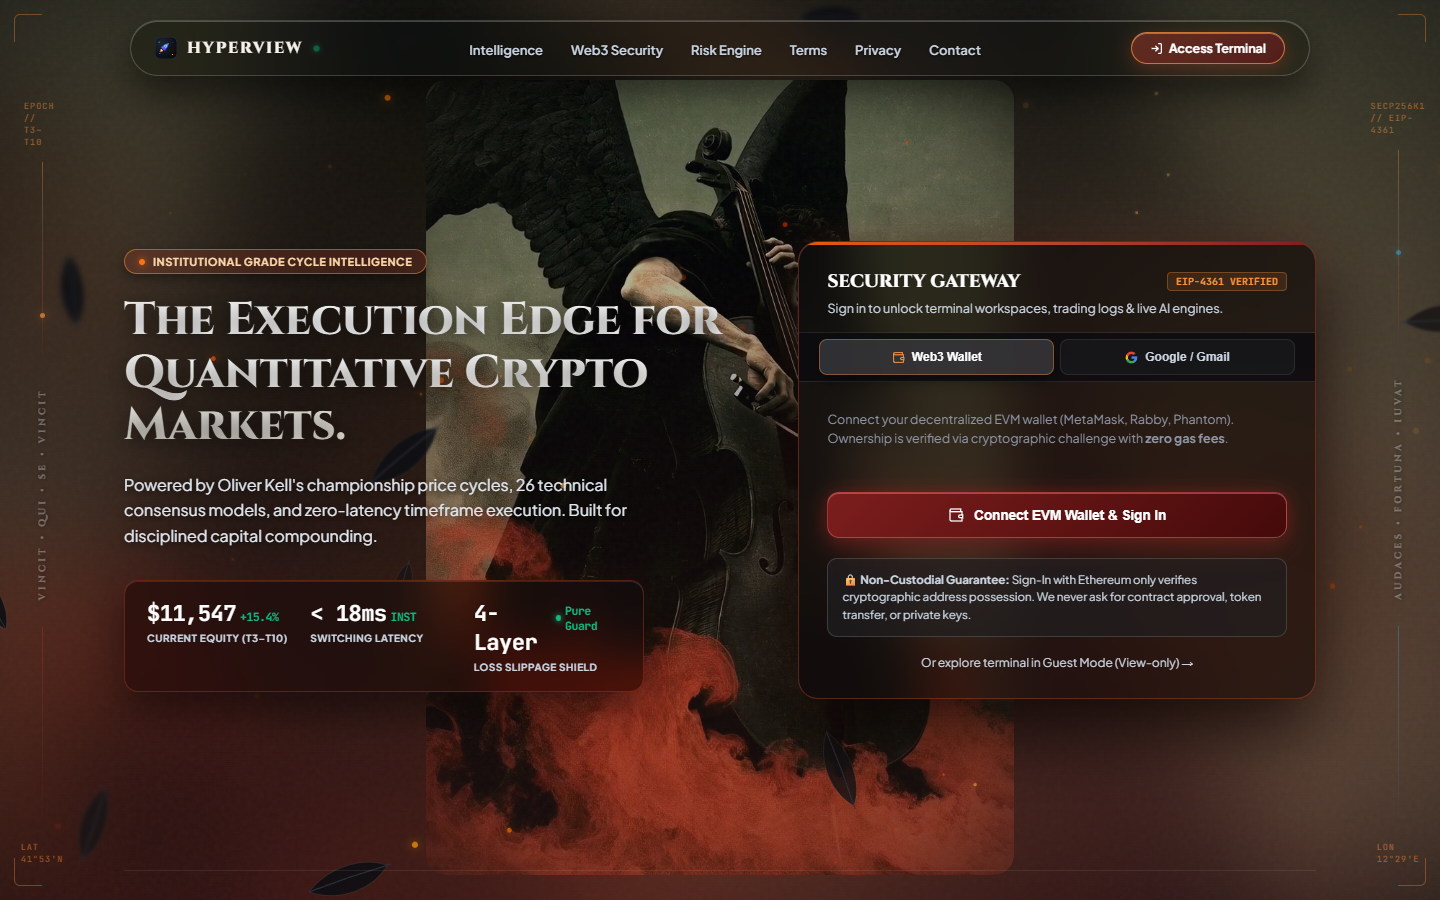
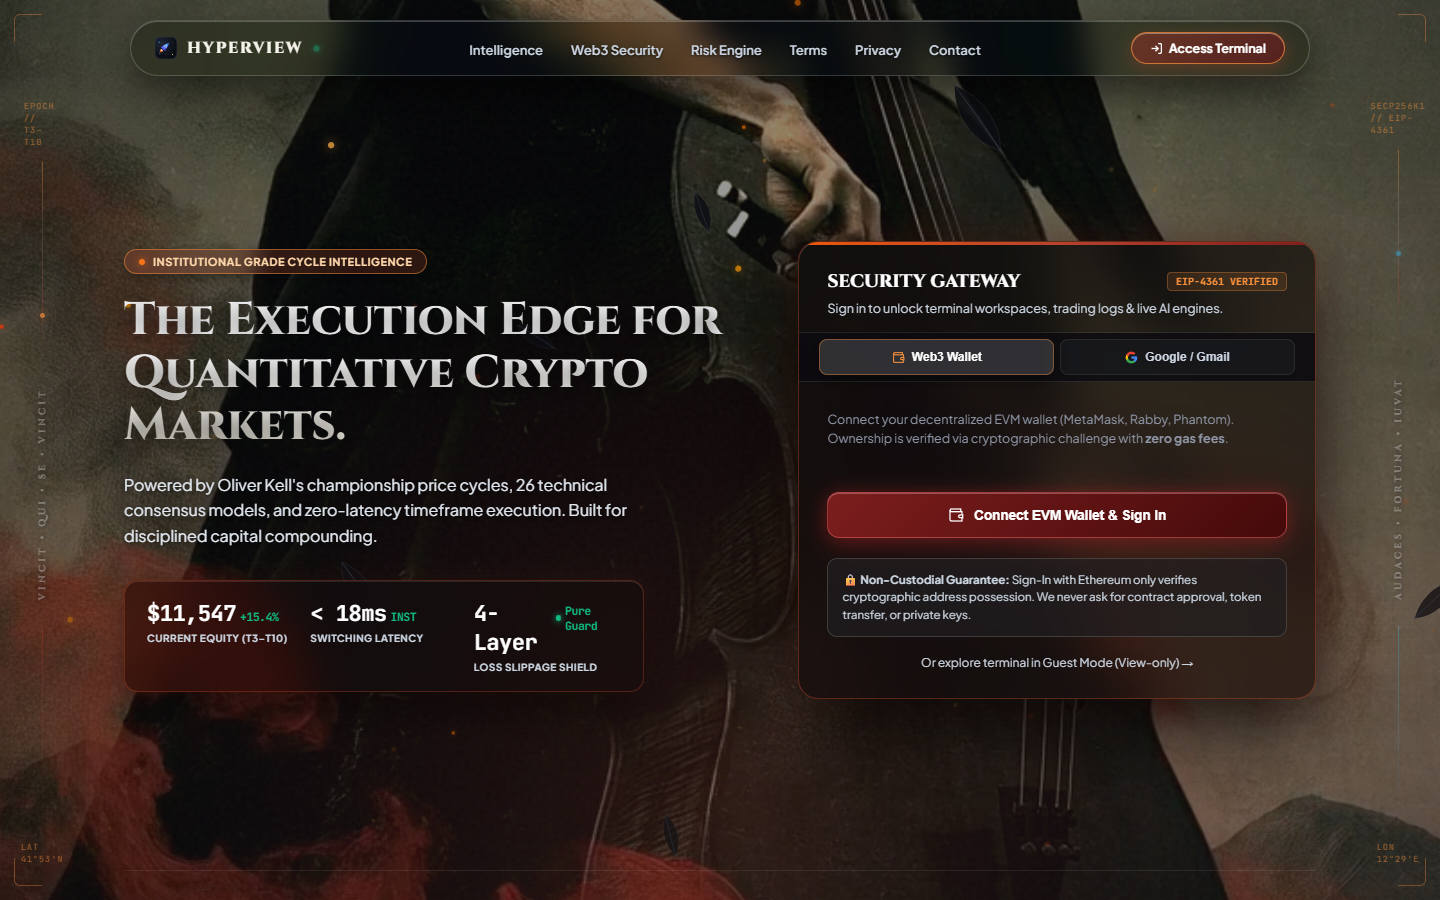
feat(landing): Restore full-bleed majestic video scale while retaining dynamic feathers and embers engine

diff --git a/src/views/loginPage.js b/src/views/loginPage.js
@@ -104,29 +104,27 @@ function getLoginPageHtml(config = {}) {
       z-index: 1;
     }
     .bg-video-stage {
-      position: absolute; inset: 0; width: 100%; height: 100%;
+      position: absolute; inset: 0; width: 100vw; height: 100vh; overflow: hidden;
       display: flex; align-items: center; justify-content: center;
-      padding: 75px 20px 20px 20px;
-      box-sizing: border-box;
+      padding: 0;
       pointer-events: none;
-      z-index: 3;
+      z-index: 2;
     }
     .bg-video-main {
-      height: calc(100vh - 105px); max-height: 880px;
-      width: auto; max-width: 100vw;
-      aspect-ratio: 816 / 1104;
-      object-fit: contain; opacity: 1;
-      filter: saturate(1.22) contrast(1.18) brightness(1.02);
-      border-radius: 20px;
-      mask-image: radial-gradient(ellipse 82% 80% at 50% 50%, black 50%, rgba(0,0,0,0.85) 70%, transparent 98%);
-      -webkit-mask-image: radial-gradient(ellipse 82% 80% at 50% 50%, black 50%, rgba(0,0,0,0.85) 70%, transparent 98%);
+      position: absolute; top: 50%; left: 50%;
+      min-width: 100%; min-height: 100%;
+      width: auto; height: auto;
+      transform: translate(-50%, -50%) scale(1.02);
+      object-fit: cover;
+      opacity: 0.94;
+      filter: saturate(1.22) contrast(1.18) brightness(1.0);
     }
     .video-ambient-overlay {
       position: absolute; inset: 0;
-      background: radial-gradient(circle at 50% 90%, rgba(184, 67, 46, 0.1) 0%, rgba(7, 9, 14, 0.18) 55%, rgba(5, 7, 11, 0.58) 100%),
-                  linear-gradient(180deg, rgba(7, 9, 14, 0.08) 0%, rgba(7, 9, 14, 0.45) 100%);
+      background: radial-gradient(circle at 50% 90%, rgba(184, 67, 46, 0.16) 0%, rgba(7, 9, 14, 0.22) 55%, rgba(5, 7, 11, 0.6) 100%),
+                  linear-gradient(180deg, rgba(7, 9, 14, 0.12) 0%, rgba(7, 9, 14, 0.52) 100%);
       pointer-events: none;
-      z-index: 4;
+      z-index: 3;
     }
 
     /* Floating Atmospheric Particles (Feathers & Embers) Canvas */
